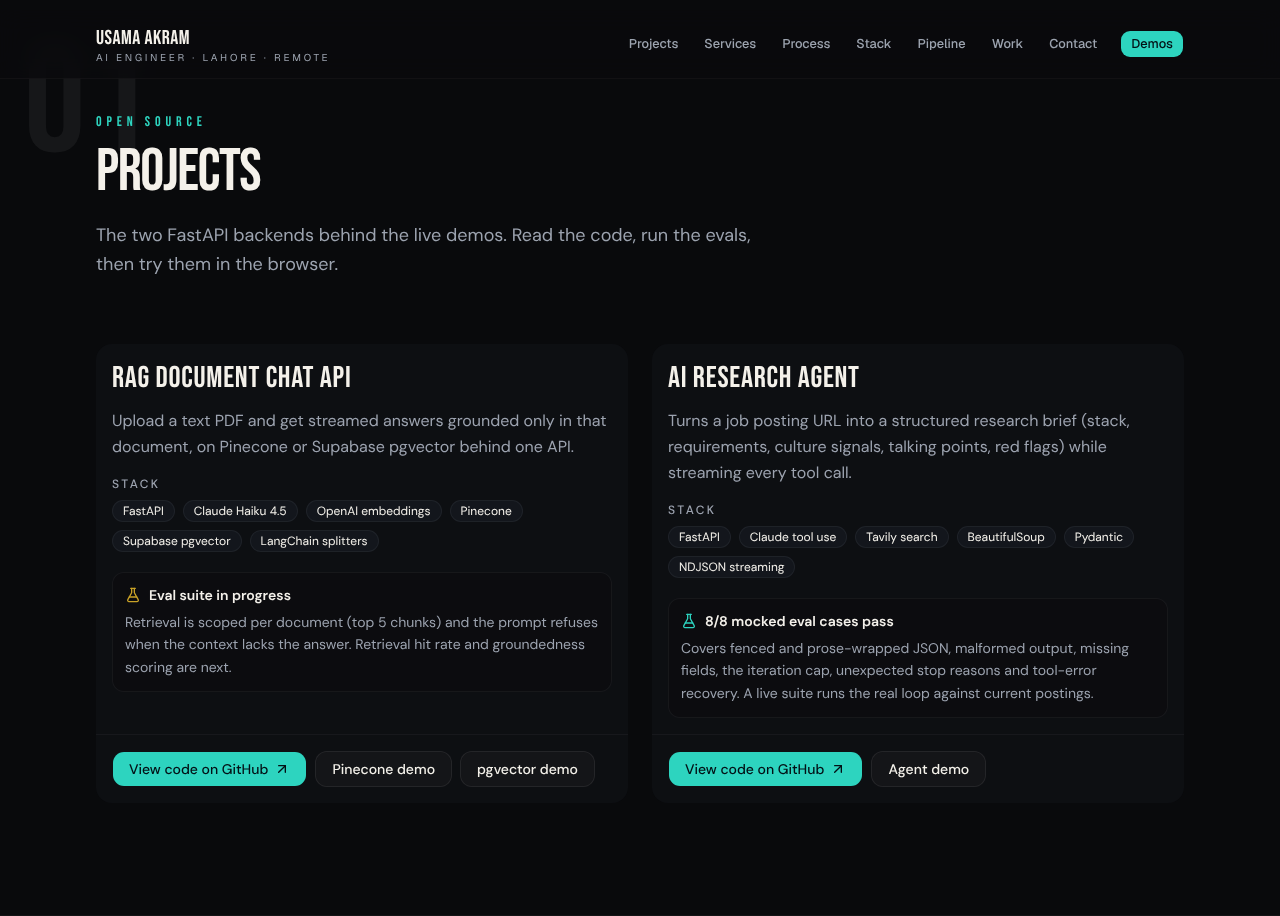
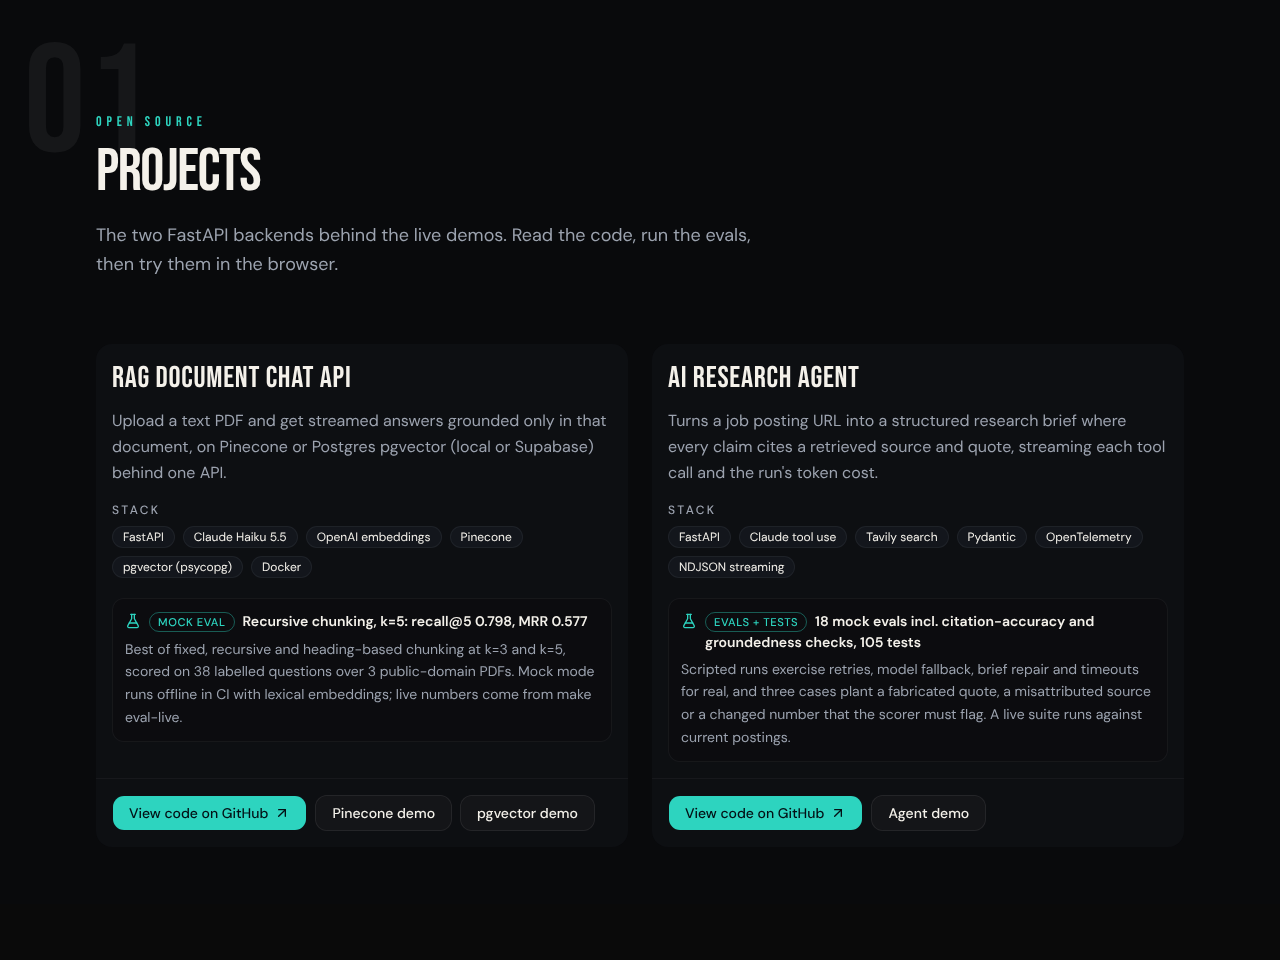
Update project cards with the backends' new eval results
- RAG API: "mock eval" tag with recursive chunking, k=5: recall@5 0.798,
  MRR 0.577, from evals/RESULTS.md (reproduced locally with make eval).
  Stack now reflects the rewrite: Claude Haiku 5.5, psycopg pgvector,
  Docker.
- Research agent: 18 mock evals incl. citation-accuracy and groundedness
  checks, 105 tests (both reproduced locally). Outcome mentions cited
  claims and run cost; stack adds OpenTelemetry.
- Eval box shows a short tag before the headline instead of a colour-coded
  status.

Claude-Session: https://claude.ai/code/session_01PsrbNun7SnPCSJi1uLhbnK

diff --git a/lib/projects.ts b/lib/projects.ts
@@ -7,10 +7,10 @@ export type Project = {
   outcome: string;
   stack: string[];
   eval: {
+    /** Short tag shown before the headline, e.g. "mock eval". */
+    label: string;
     headline: string;
     detail: string;
-    /** "measured" = a number the repo's own harness produces today. */
-    status: "measured" | "in-progress";
   };
   demos: { href: string; label: string }[];
 };
@@ -20,20 +20,20 @@ export const PROJECTS: Project[] = [
     name: "RAG Document Chat API",
     repoUrl: BACKEND_REPOS.rag,
     outcome:
-      "Upload a text PDF and get streamed answers grounded only in that document, on Pinecone or Supabase pgvector behind one API.",
+      "Upload a text PDF and get streamed answers grounded only in that document, on Pinecone or Postgres pgvector (local or Supabase) behind one API.",
     stack: [
       "FastAPI",
-      "Claude Haiku 4.5",
+      "Claude Haiku 5.5",
       "OpenAI embeddings",
       "Pinecone",
-      "Supabase pgvector",
-      "LangChain splitters",
+      "pgvector (psycopg)",
+      "Docker",
     ],
     eval: {
-      headline: "Eval suite in progress",
+      label: "mock eval",
+      headline: "Recursive chunking, k=5: recall@5 0.798, MRR 0.577",
       detail:
-        "Retrieval is scoped per document (top 5 chunks) and the prompt refuses when the context lacks the answer. Retrieval hit rate and groundedness scoring are next.",
-      status: "in-progress",
+        "Best of fixed, recursive and heading-based chunking at k=3 and k=5, scored on 38 labelled questions over 3 public-domain PDFs. Mock mode runs offline in CI with lexical embeddings; live numbers come from make eval-live.",
     },
     demos: [
       { href: "/rag", label: "Pinecone demo" },
@@ -44,20 +44,21 @@ export const PROJECTS: Project[] = [
     name: "AI Research Agent",
     repoUrl: BACKEND_REPOS.agent,
     outcome:
-      "Turns a job posting URL into a structured research brief (stack, requirements, culture signals, talking points, red flags) while streaming every tool call.",
+      "Turns a job posting URL into a structured research brief where every claim cites a retrieved source and quote, streaming each tool call and the run's token cost.",
     stack: [
       "FastAPI",
       "Claude tool use",
       "Tavily search",
-      "BeautifulSoup",
       "Pydantic",
+      "OpenTelemetry",
       "NDJSON streaming",
     ],
     eval: {
-      headline: "8/8 mocked eval cases pass",
+      label: "evals + tests",
+      headline:
+        "18 mock evals incl. citation-accuracy and groundedness checks, 105 tests",
       detail:
-        "Covers fenced and prose-wrapped JSON, malformed output, missing fields, the iteration cap, unexpected stop reasons and tool-error recovery. A live suite runs the real loop against current postings.",
-      status: "measured",
+        "Scripted runs exercise retries, model fallback, brief repair and timeouts for real, and three cases plant a fabricated quote, a misattributed source or a changed number that the scorer must flag. A live suite runs against current postings.",
     },
     demos: [{ href: "/agent", label: "Agent demo" }],
   },

diff --git a/components/landing/projects.tsx b/components/landing/projects.tsx
@@ -60,16 +60,13 @@ export function Projects() {
               <div className="rounded-lg border border-border/70 bg-background/40 p-3">
                 <p className="flex items-center gap-2 text-sm font-semibold text-foreground">
                   <FlaskConical
-                    className={cn(
-                      "size-4 shrink-0",
-                      p.eval.status === "measured"
-                        ? "text-primary"
-                        : "text-accent",
-                    )}
+                    className="mt-0.5 size-4 shrink-0 self-start text-primary"
                     aria-hidden
                   />
                   <span>
-                    <span className="sr-only">Eval: </span>
+                    <span className="mr-2 inline-block rounded-full border border-primary/40 px-2 py-px text-[0.7rem] font-medium uppercase tracking-wider text-primary">
+                      {p.eval.label}
+                    </span>
                     {p.eval.headline}
                   </span>
                 </p>

diff --git a/e2e/home.spec.ts b/e2e/home.spec.ts
@@ -29,7 +29,12 @@ test.describe("home", () => {
       ),
     ).toBeVisible();
     await expect(
-      projects.getByText("8/8 mocked eval cases pass"),
+      projects.getByText("Recursive chunking, k=5: recall@5 0.798, MRR 0.577"),
+    ).toBeVisible();
+    await expect(
+      projects.getByText(
+        "18 mock evals incl. citation-accuracy and groundedness checks, 105 tests",
+      ),
     ).toBeVisible();
 
     await expect(page.locator("#contact")).toBeAttached();
